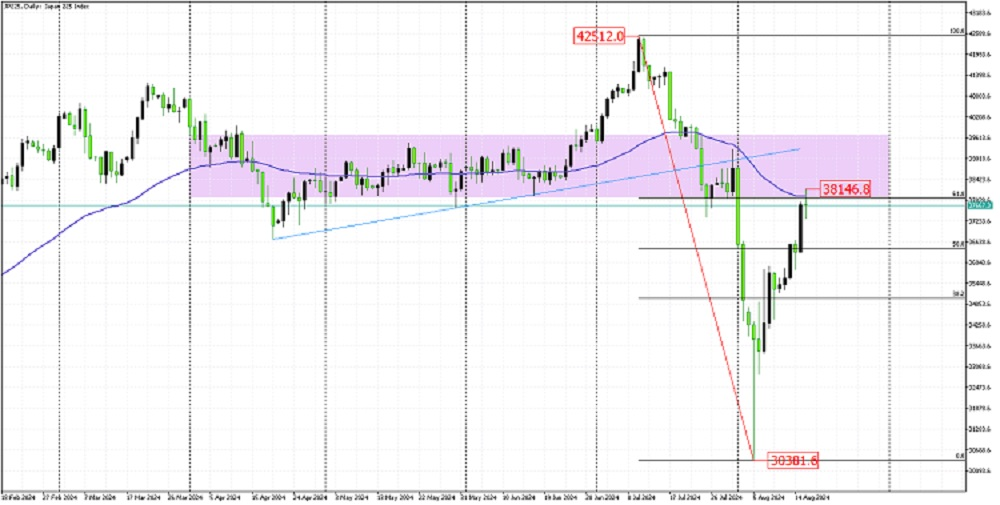
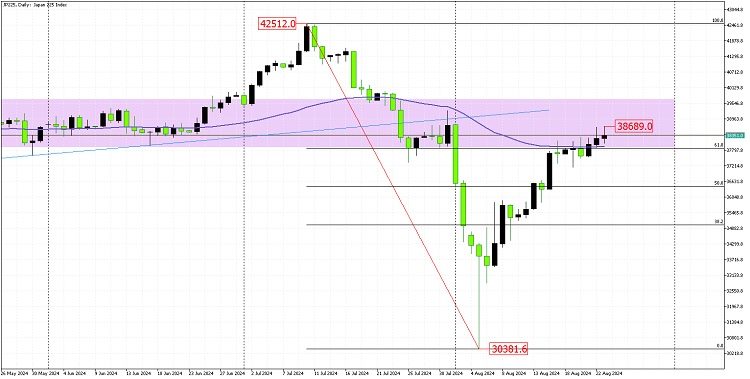
Add files via upload

diff --git a/viv1.py b/viv1.py
@@ -15,7 +15,7 @@ st.title('現物株・先物オプション戦略')
 
 st.write('テスト版')
 
-st.text('更新日8月18日')
+st.text('更新日8月25日')
 st.text(datetime.date.today())
 
 """
@@ -25,16 +25,16 @@ st.text(datetime.date.today())
 
 df1 = pd.DataFrame({
 
-     '買い銘柄':['KIMOTO','北の達人','ニッスイ','清水建設','リソー教育'],
-     '現在価格':['241','171','874.1','916.9','237'],
-     '目標価格':['260','200','915','950','275']
+     '買い銘柄':['ENEOS','オリエンタル白石','五洋建設','ヤマダHD','住石HD'],
+     '現在価格':['760.4','385','647.6','447.1','983'],
+     '目標価格':['810','410','680','460','1100']
  })
 df1
 
 df2 = pd.DataFrame({
-     '売り銘柄':['スカイマーク','コニカミノルタ','広済堂HD','京都きもの友禅HD','帝国ホテル'],
-     '現在価格':['659','396.1','468','103','879'],
-     '目標価格':['640','370','425','95','850']
+     '売り銘柄':['筑波銀行','ワタミ','グリー','北海道電力','マネックスG'],
+     '現在価格':['267','893','450','1002','679'],
+     '目標価格':['240','850','415','900','640']
  })
 df2
 
@@ -42,9 +42,9 @@ df2
 st.write('１．プライム市場の主要銘柄を選定。一部例外有り。')
 st.write('２．各々３銘柄を売買い保有')
 st.write('３．一定の利益または損失がでたら一括決済')
-txt1 = '<p style="color:blue;">先週の実績 買い推奨５銘柄計 ---%</p>'
+txt1 = '<p style="color:blue;">先週の実績 買い推奨５銘柄計 +16.82%</p>'
 st.write(txt1, unsafe_allow_html=True)
-txt2 = '<p style="color:red;">先週の実績 売り推奨５銘柄計 ---%</p>'
+txt2 = '<p style="color:red;">先週の実績 売り推奨５銘柄計 -18.33%</p>'
 st.write(txt2, unsafe_allow_html=True)
 
 
@@ -53,15 +53,15 @@ st.write(txt2, unsafe_allow_html=True)
 """
 df3 = pd.DataFrame({
     '指数':['日経平均225'],
-    '現在価格':['37640'],
-    '上値抵抗':['38250'],
+    '現在価格':['38255'],
+    '上値抵抗':['38750'],
     '下値支持':['36700']
 })
 df3
 
 df4 = pd.DataFrame({
     '指数':['TOPIX'],
-    '現在価格':['2696'],
+    '現在価格':['2681'],
     '上値抵抗':['2720'],
     '下値支持':['2593']
 })
@@ -69,11 +69,11 @@ df4
 
 data = pd.DataFrame({
     'NT':['上値抵抗','現在','下値支持'],
-    'レシオ':['14.40','14.21','13.85']
+    'レシオ':['14.40','14.26','13.85']
     })
 data
 
-st.write('14.00付近でレンジ。上下バックに逆張り戦略。')
+st.write('14.36まで上昇。上値重く逆張り戦略。')
 """
 ##### ✅ＮＴレシオグラフ
 """
@@ -88,7 +88,8 @@ st.image(image1, caption='NTチャート',use_column_width=True)
 
 """
  ### 225日足チャート 
- ##### ※7月の高値42,512円から8月の安値30,301円のフィボナッチ61.8%戻し達成。
+ ##### ※8/23のジャクソンホールにてFRBが利下げ告知。ドル円下へ。
+ ##### ※円高方向へシフトしたため、日本株は円高メリット株以外は重い展開予想。
  ##### ※過去の出来高からみて、38,000円からの上値追いは厳しいとみます。
 """
 Image2 = Image.open('bt1.jpg')
@@ -104,22 +105,7 @@ st.image(Image2,caption='225チャート日足',use_column_width=True)
 ##### ✅先物・オプション：シュミレーション
 """
 """
-##### ⚠先週のOP戦略は「プロテクティブ・プット」又は「NTレシオの短期トレード」
-##### マイクロ先物9限 35,800 2枚買い
-##### ミニプットオプション 8月3W限
-##### 権利行使価格32,000
-##### プット1枚買い@80
-##### 想定証拠金40,000円
-###### SQ持込せずに一定の利益で決済予定
-##### 結果 SQ値 37,609円
-##### 先物+36,180円 オプション-8,000円　計+28,180円
-
-"""
-"""
-##
-"""
-"""
-##### ⚠今週のOP戦略は「⓵プロテクティブ・プット」又は「⓶ベア・シンセティック」
+##### ⚠先週のOP戦略は「⓵プロテクティブ・プット」又は「⓶ベア・シンセティック」
 ###### ⏹ベア・シンセティック（カバード・コールとプロティクティブ・プットの合成）
 ######
 ##### ⓵プロティクティブ・プット
@@ -129,12 +115,13 @@ st.image(Image2,caption='225チャート日足',use_column_width=True)
 ###### 権利行使価格35,000
 ###### プット1枚買い@250
 #####
-##### 想定証拠金80,000円
-###### SQ持込せずに一定の利益で決済予定
+##### 結果　micro先物+12,700円
+#####      プットOP  -12,000円
+###### 手数料負け 
 """
-Image5 = Image.open('oct.jpg')
-st.image(Image5,caption='プロティクティブ・プット損益図',use_column_width=True)
-
+"""
+###
+"""
 """
 ##### ⓶ベア・シンセティック
 ##### micro225先物9限 37,620 3枚買い
@@ -147,11 +134,25 @@ st.image(Image5,caption='プロティクティブ・プット損益図',use_colu
 ###### 権利行使価格41,000
 ###### コール1枚売り@75
 #####
-##### 想定証拠金127,000円
-###### 適宜一定の利益で利確・決済予定
+##### 結果　micro先物+19,050円
+#####      プットOP  -7,300円
+#####      コールOP売り+200円
+###### 差引+11,950円
+###
+###
+##### ⚠今週のOP戦略はプロテクティブ・プット
+###### ⏹下落に比重を置いた戦略。上昇でも一定の利益。
+######
+##### プロティクティブ・プット
+##### micro225先物9限 38,2900 2枚買い
+#####
+##### ミニプットオプション 9月限
+###### 権利行使価格35,000
+###### プット1枚買い@130 2枚買い
 """
-Image6 = Image.open('oct2.jpg')
-st.image(Image6,caption='ベア・シンセティック損益図',use_column_width=True)
+
+Image5 = Image.open('oct.jpg')
+st.image(Image5,caption='プロテクティブ・プット損益図',use_column_width=True)
 
 
 st.write('ご訪問ありがとうございます')
